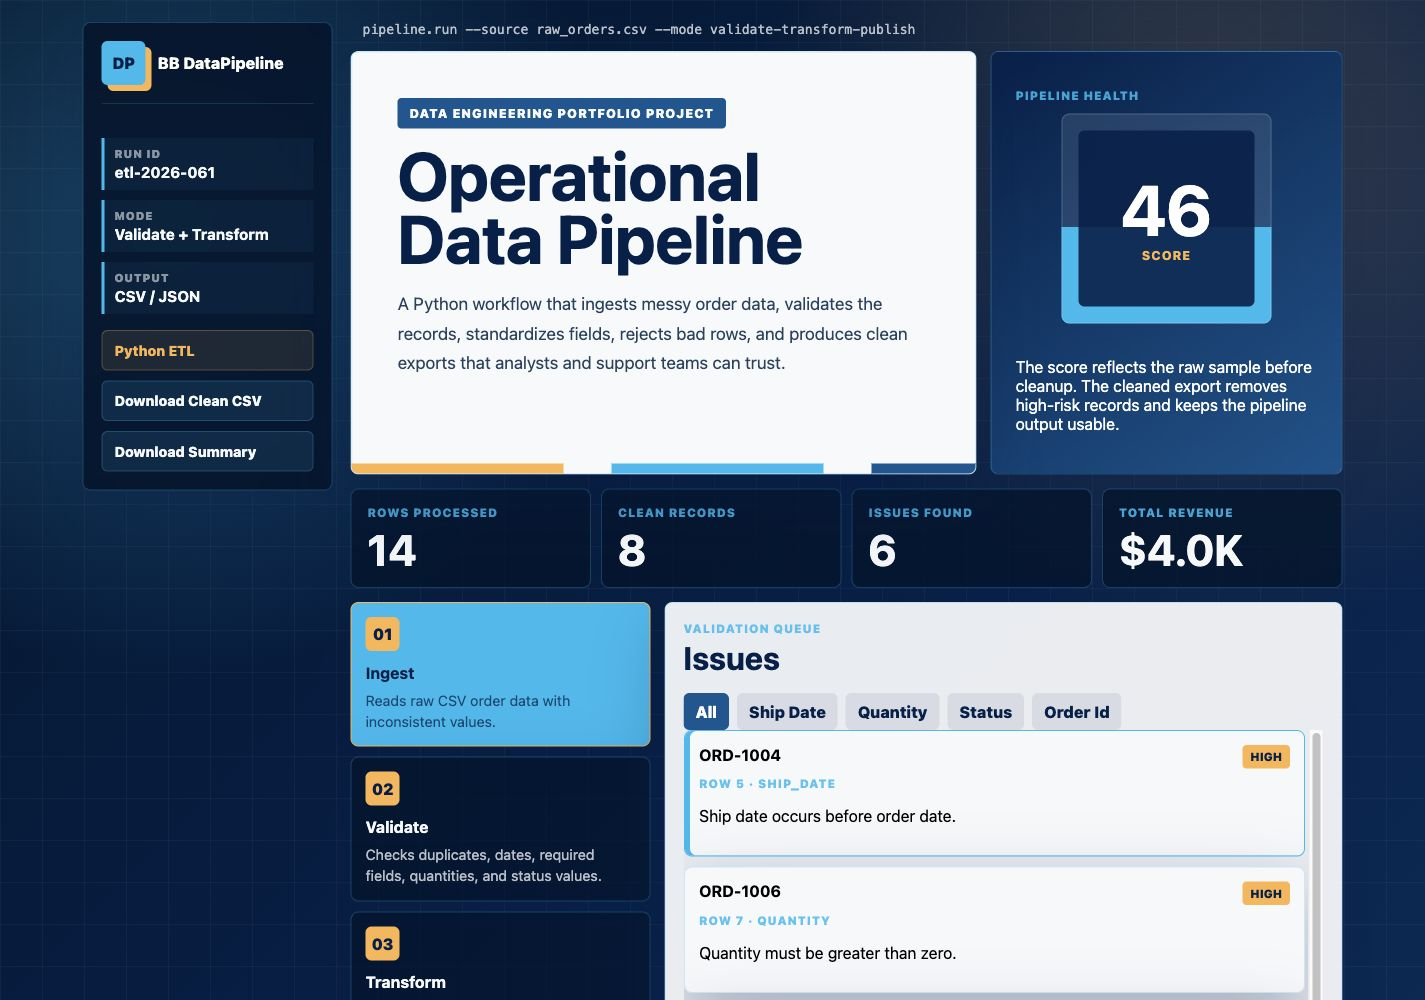
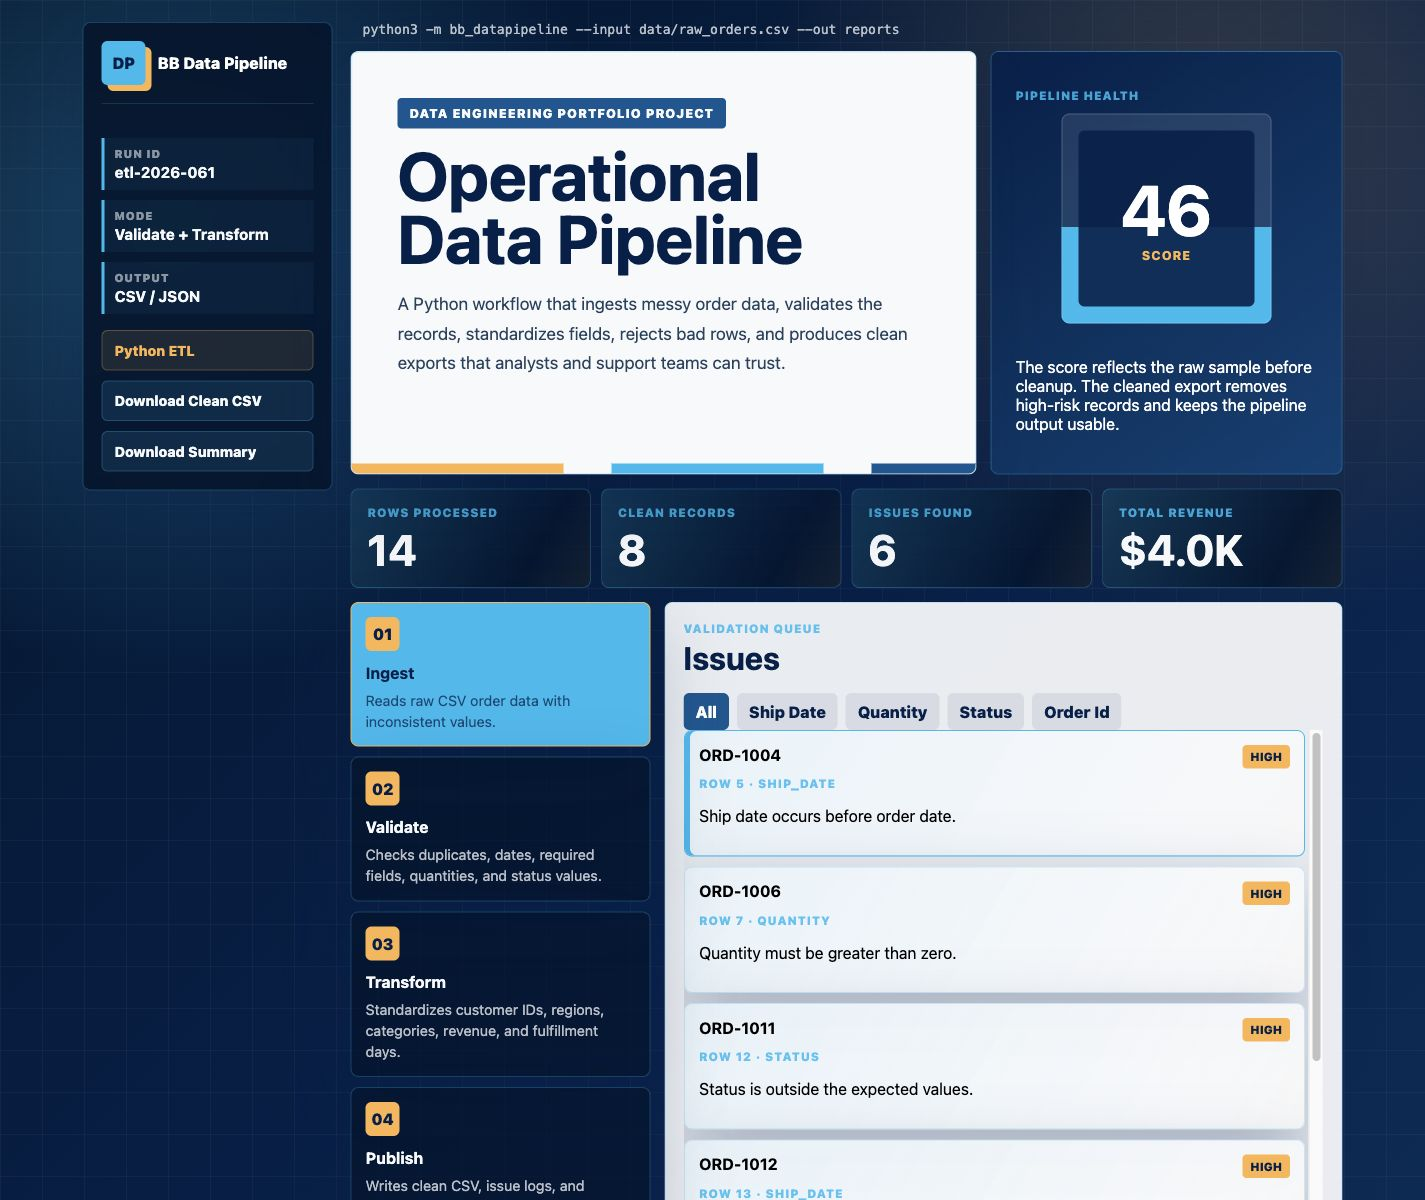
Refreshing the Data Pipeline command and screenshot.

Changed region(s): [[0.0618, 0.0, 0.9572, 1.0], [0.0618, 0.031, 0.2161, 0.093]]

diff --git a/index.html b/index.html
@@ -760,7 +760,7 @@
 
     <div class="workspace">
       <div class="console-strip">
-        <span>pipeline.run --source raw_orders.csv --mode validate-transform-publish</span>
+        <span>python3 -m bb_datapipeline --input data/raw_orders.csv --out reports</span>
       </div>
 
       <section class="hero">